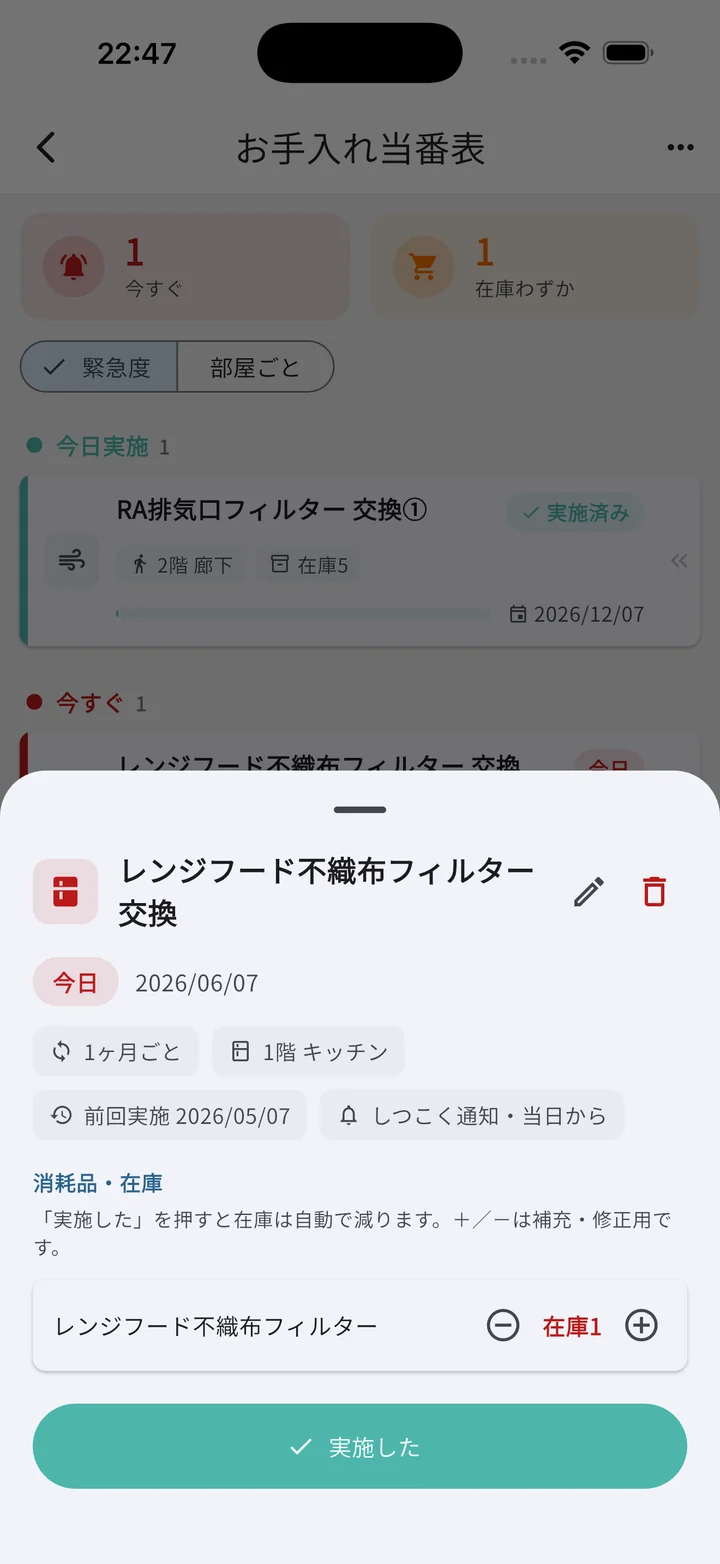
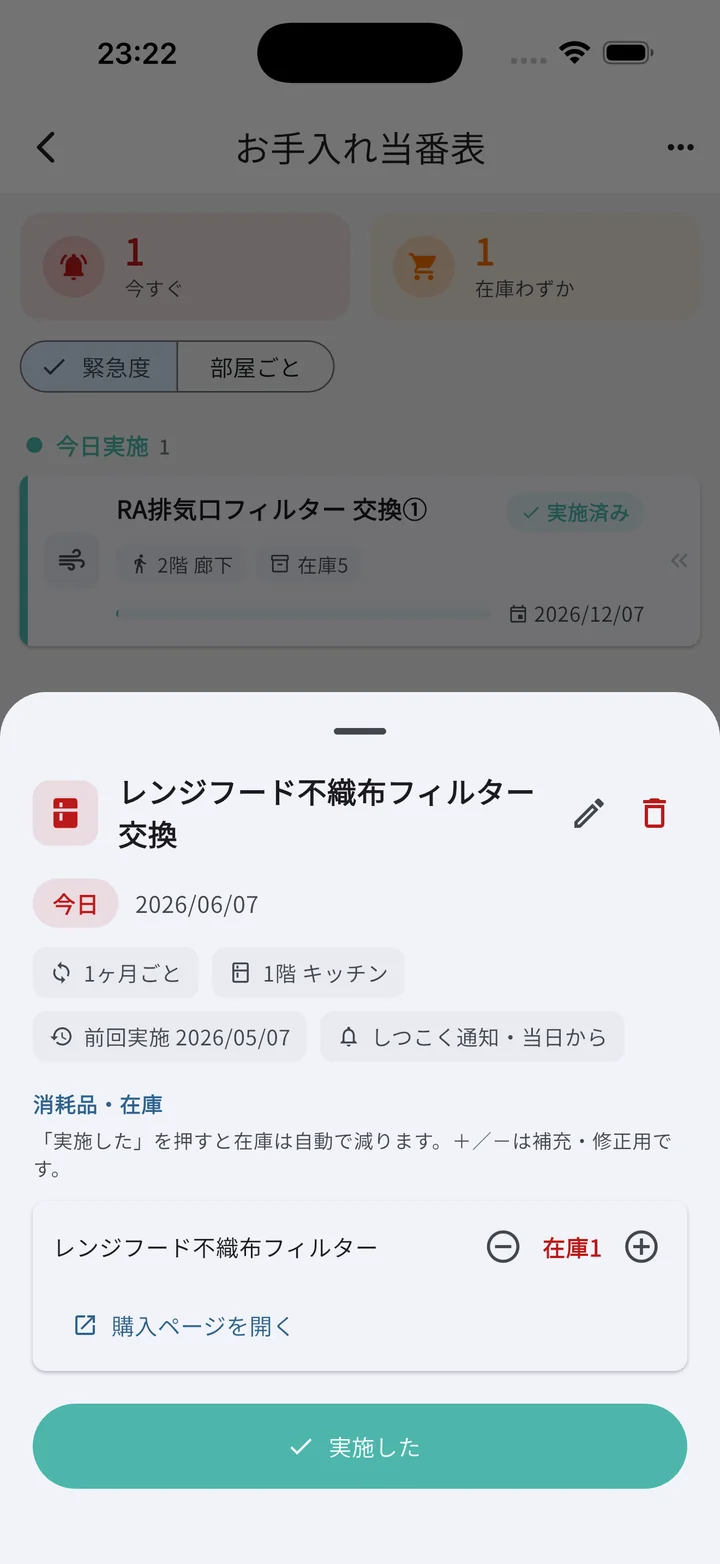
docs: 詳細シートのスクショを購入リンク表示ありに差し替え

diff --git a/docs/manual.html b/docs/manual.html
@@ -3086,8 +3086,8 @@
 
 <div class="shot-grid">
   <figure class="shot-phone">
-    <img src="images/maintenance_detail_sheet.webp" width="720" height="1564" alt="お手入れ詳細シート（在庫±・実施した）" loading="lazy" decoding="async">
-    <figcaption>詳細シート（在庫±・実施した）</figcaption>
+    <img src="images/maintenance_detail_sheet.webp" width="720" height="1564" alt="お手入れ詳細シート（在庫±・購入ページを開く・実施した）" loading="lazy" decoding="async">
+    <figcaption>詳細シート（在庫±・購入リンク・実施した）</figcaption>
   </figure>
 </div>
 
